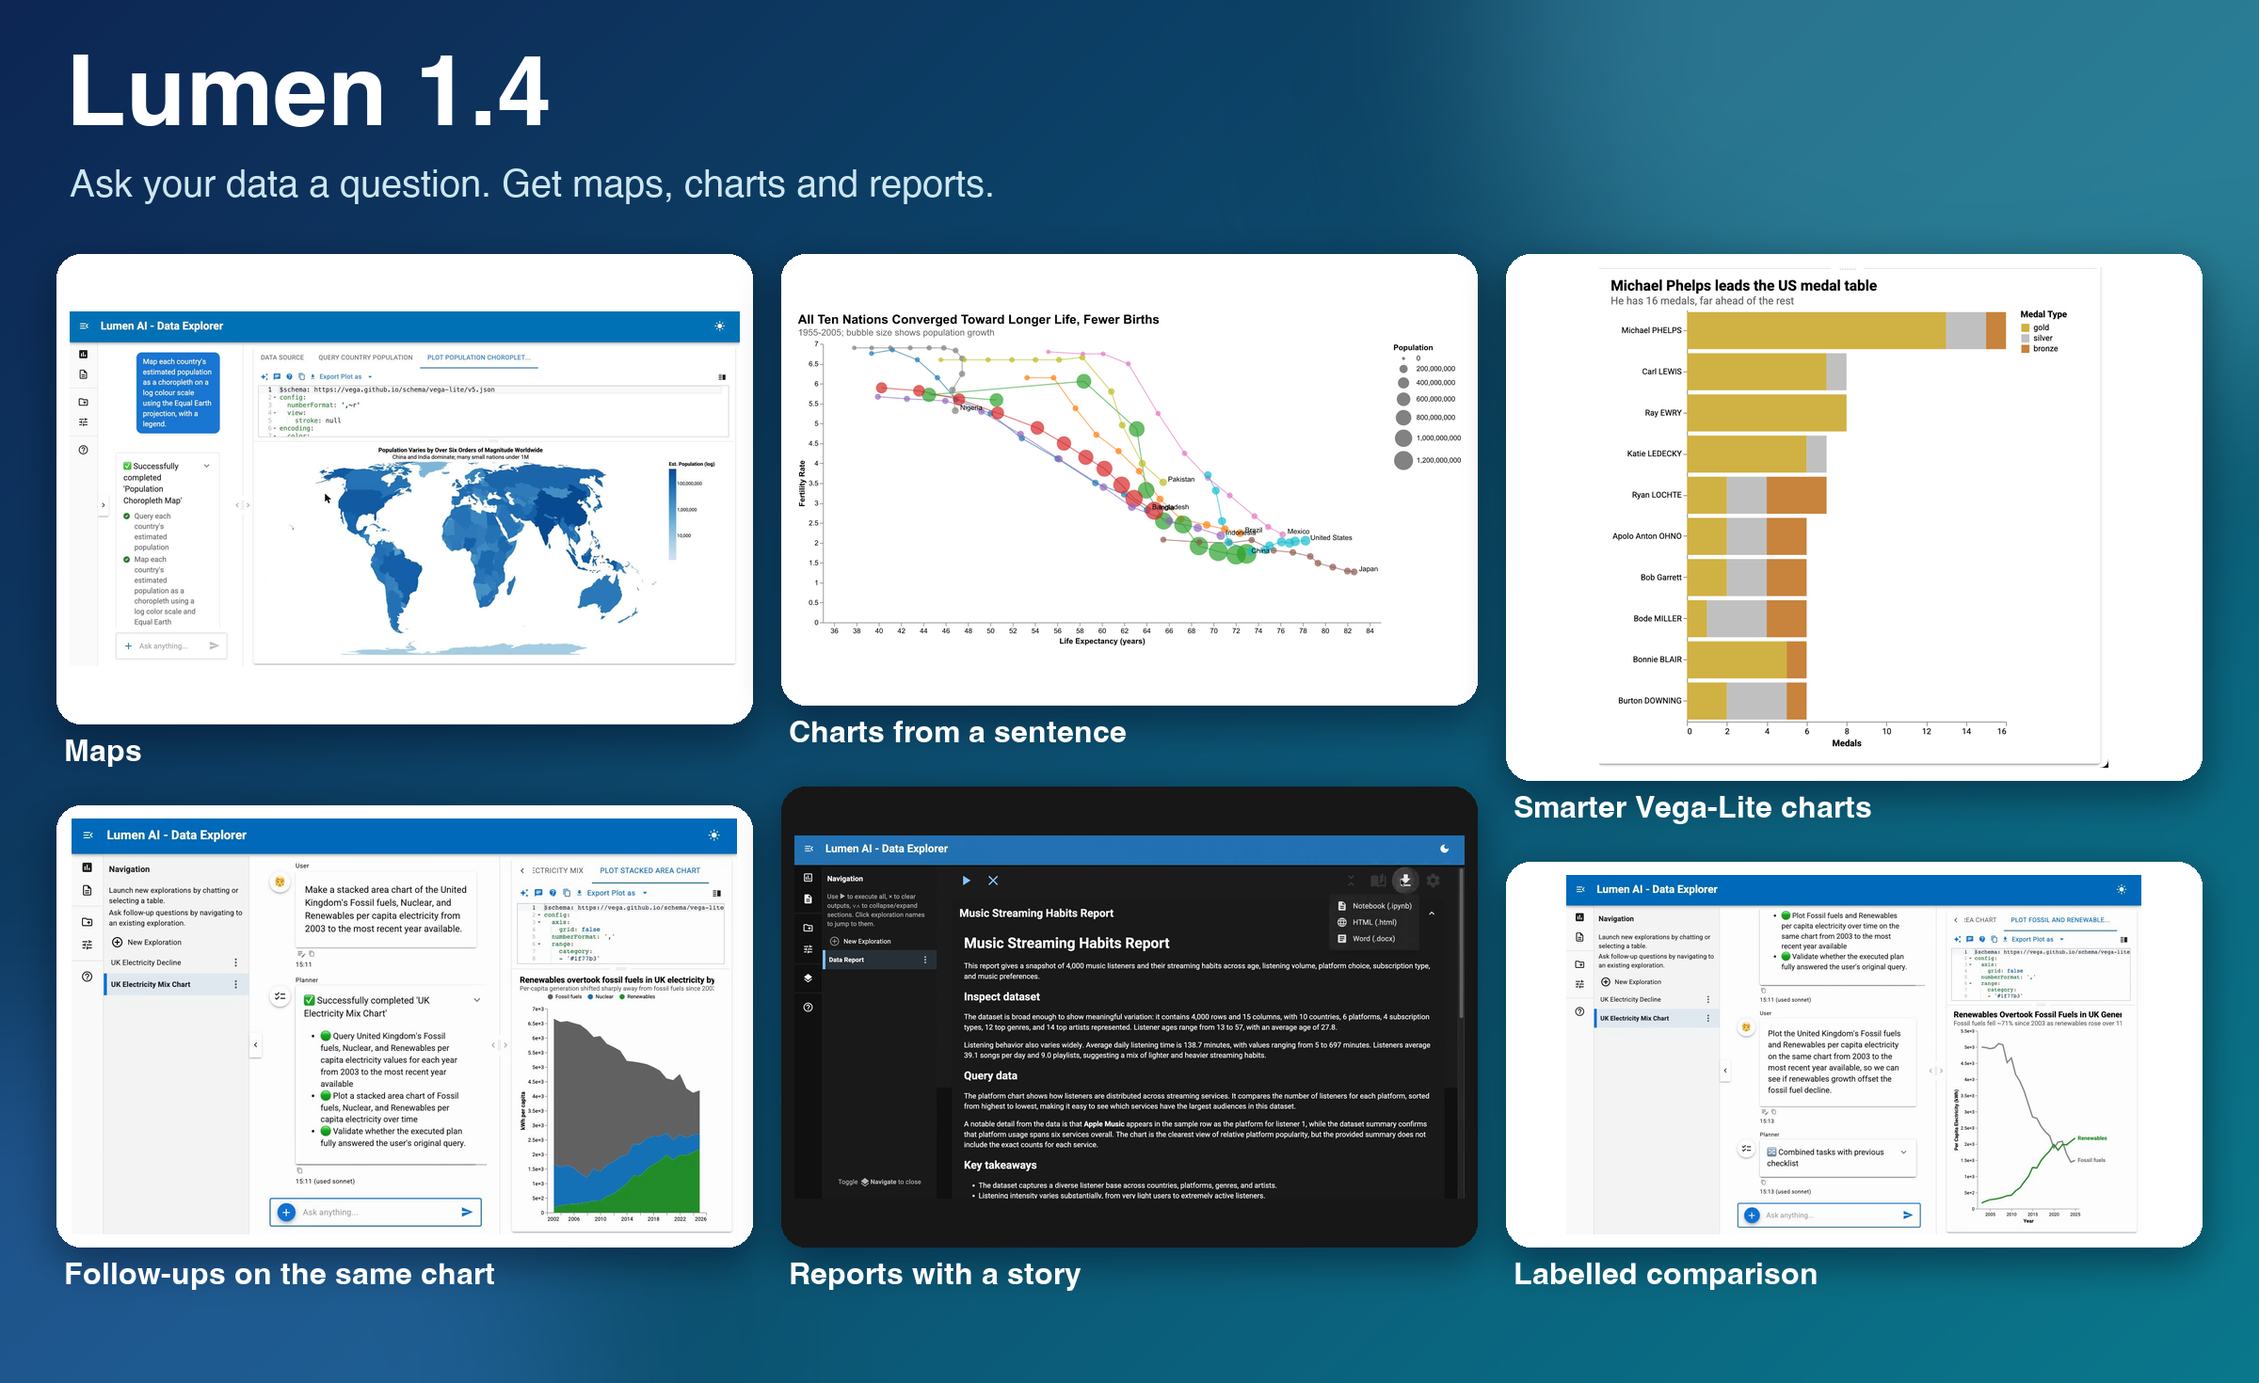
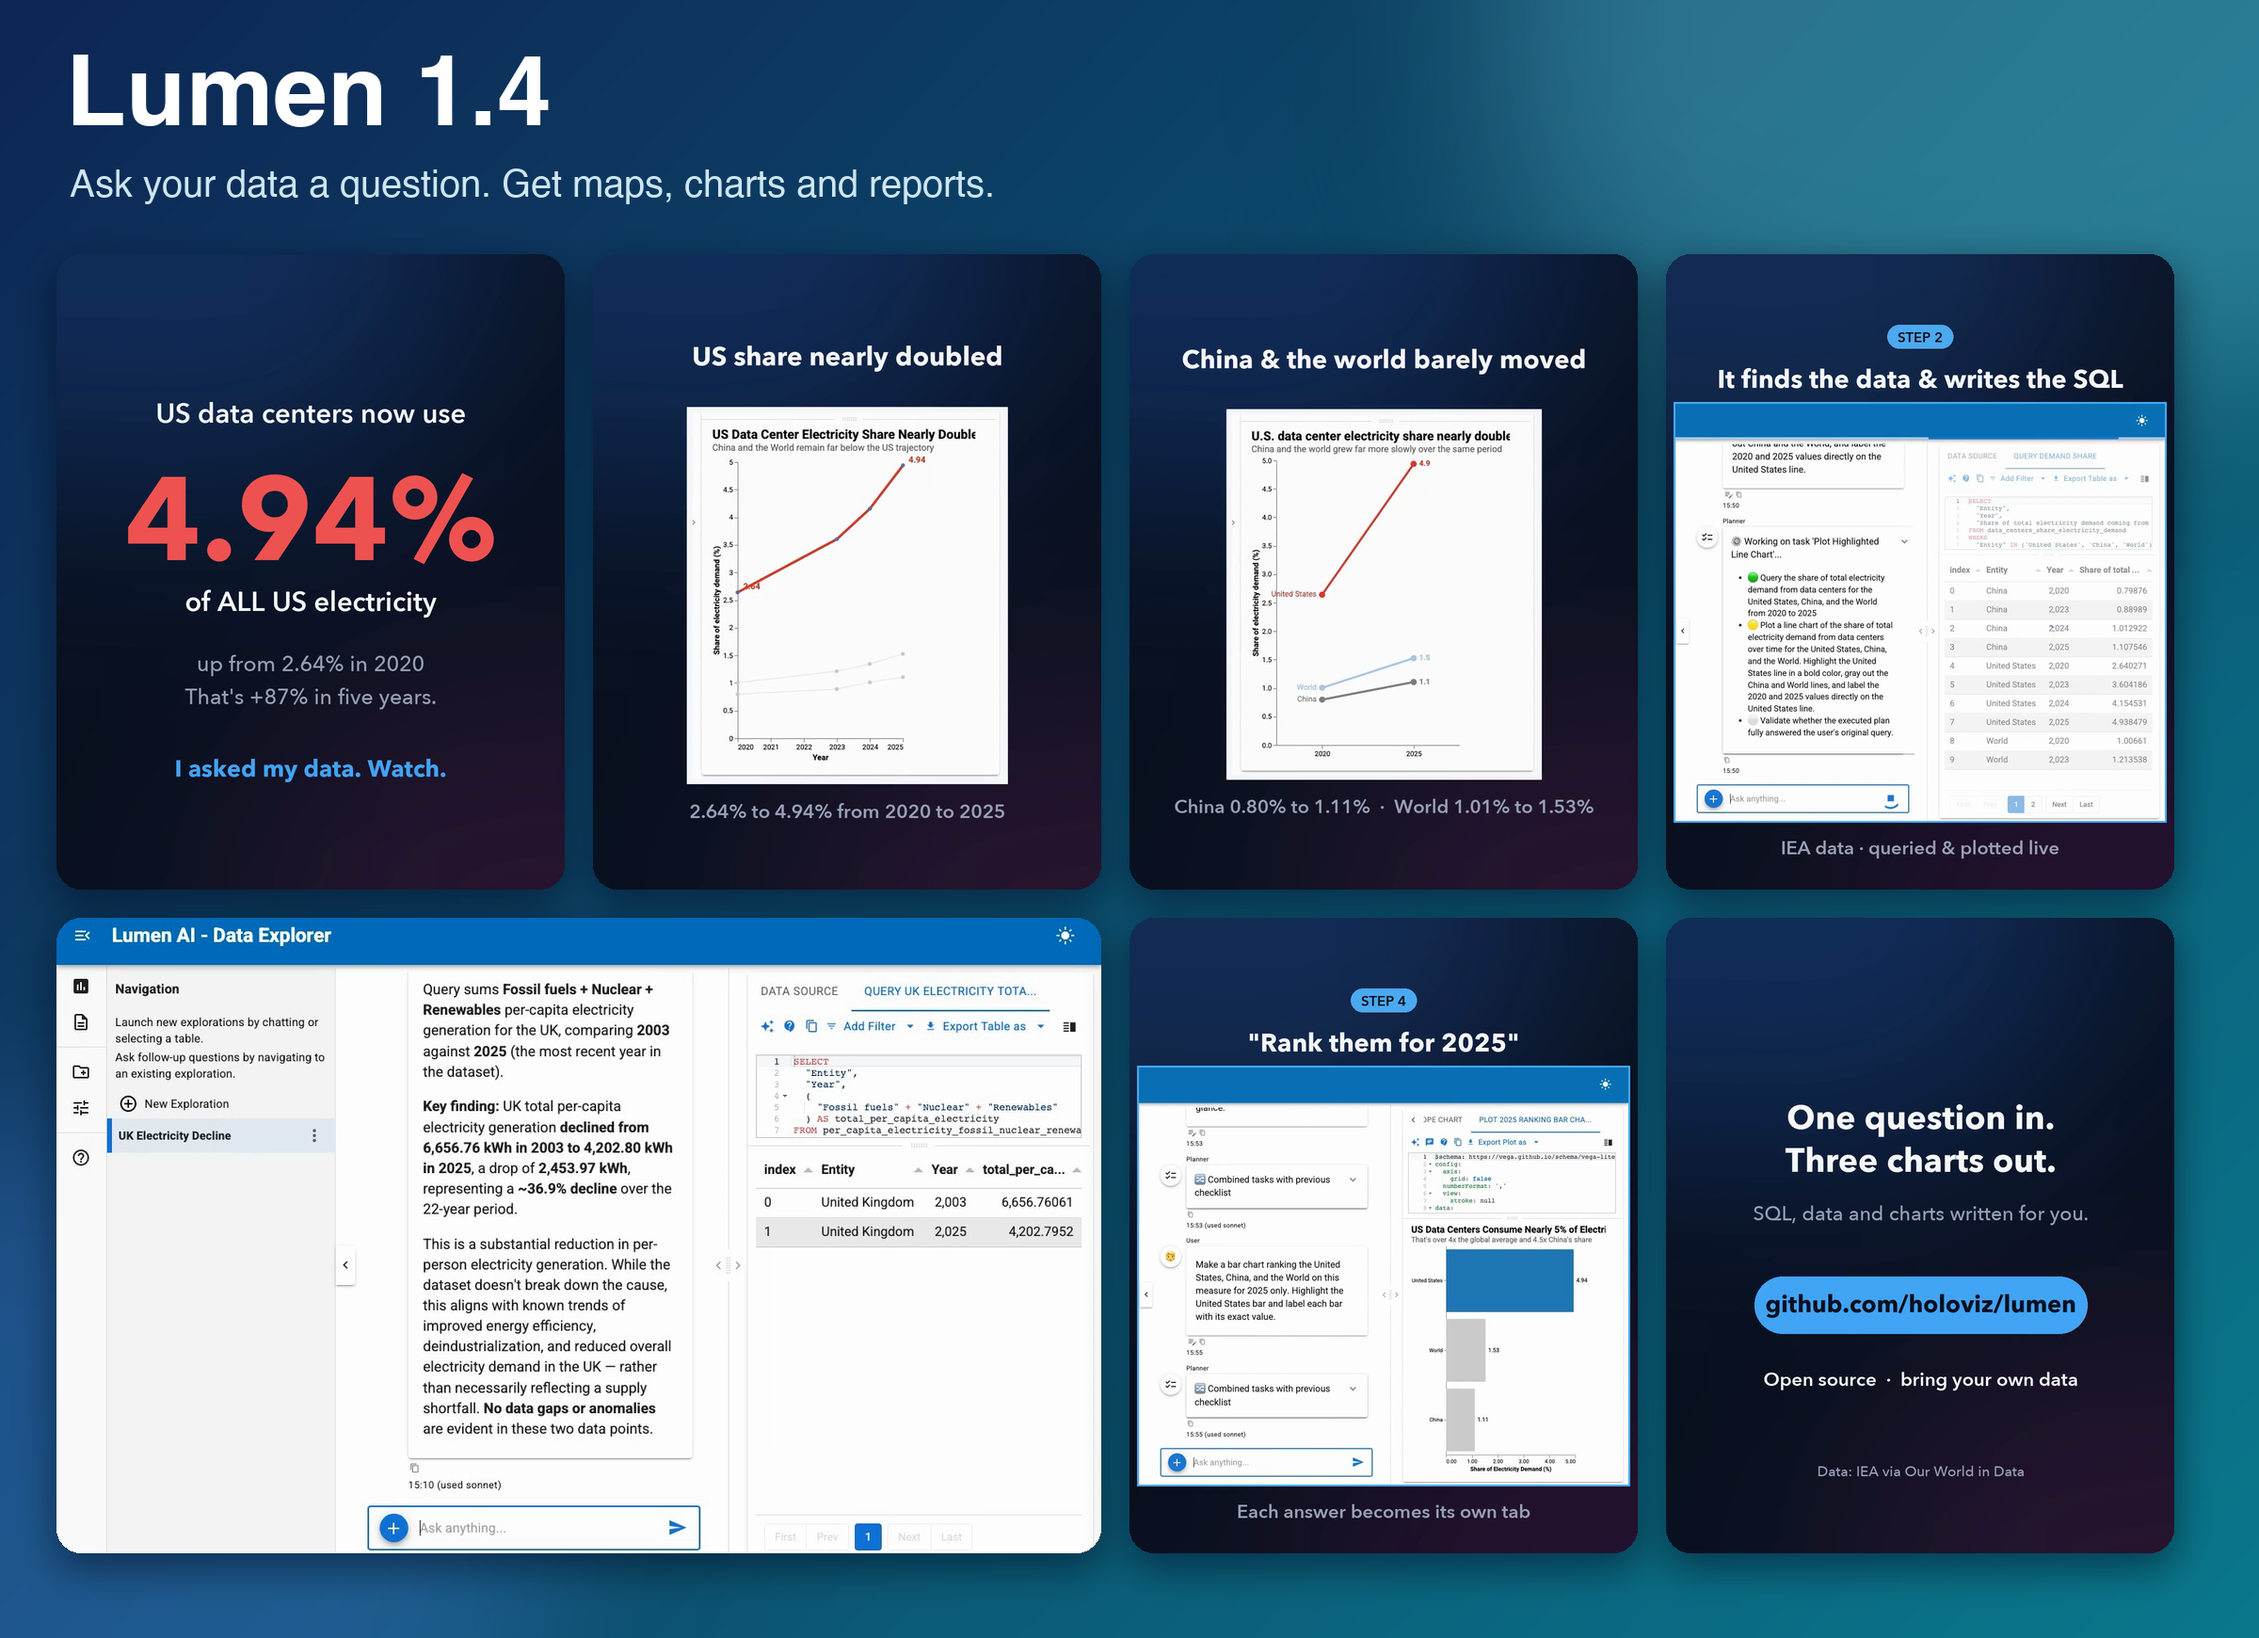
Add live frames and rebuild collage

diff --git a/posts/lumen_1.4/index.md b/posts/lumen_1.4/index.md
@@ -88,6 +88,10 @@ lumen-ai serve countries.geojson --provider claude-code
 
 The chart is a plain Vega-Lite spec, shown above the map. If something is off, edit the YAML or ask for the change.
 
+Maps are interactive: hover a state to see its values, and the view follows the light or dark theme.
+
+![A choropleth of average PM2.5 by US state in dark mode, with a tooltip on Texas.](./images/dark_map.png){fig-alt="Lumen's dark theme showing the Vega-Lite spec above a US choropleth of average PM2.5 by state, with a tooltip on Texas showing 10.92."}
+
 Around that feature, geospatial support got a round of fixes:
 
 - GeoJSON uploads load end to end ([#1996](https://github.com/holoviz/lumen/pull/1996)), and the coordinate reference system of a GeoDataFrame survives ingest into DuckDB ([#2077](https://github.com/holoviz/lumen/pull/2077)).
@@ -115,6 +119,10 @@ Follow-ups work on the chart you already have. Here Lumen draws UK electricity p
 The Vega-Lite agent also got better at stacking and ordering: asked for Michael Phelps's Olympic medals, it draws a stacked bar by medal type ([#1992](https://github.com/holoviz/lumen/pull/1992)).
 
 ![A stacked bar chart of Michael Phelps's Olympic medals by games and medal type.](./images/medals.png){fig-alt="A stacked bar chart with one bar per Olympic games, split into gold, silver and bronze medals."}
+
+Two more prompts on data-centre electricity demand: a slope chart that highlights the United States in red, and a ranking bar chart that labels each bar with its value.
+
+![A slope chart and a ranking bar chart of data-centre share of electricity demand for the United States, China and the world.](./images/slope_ranking.png){fig-alt="Left, a slope chart from 2020 to 2025 with the United States line in red rising to 4.9 and China and the world in grey and light blue. Right, a bar chart ranking the United States at 4.94 above the world at 1.53 and China at 1.11."}
 
 ## Reports With a Story
 
